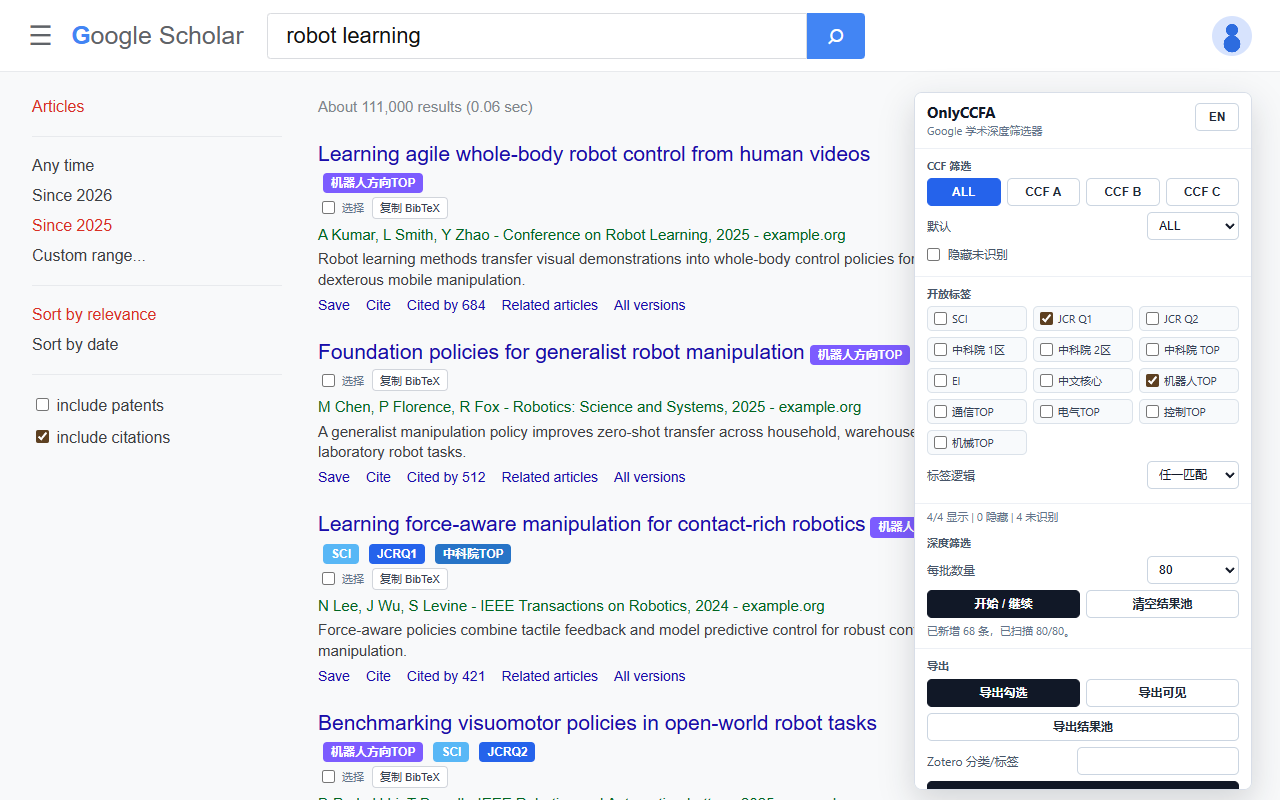
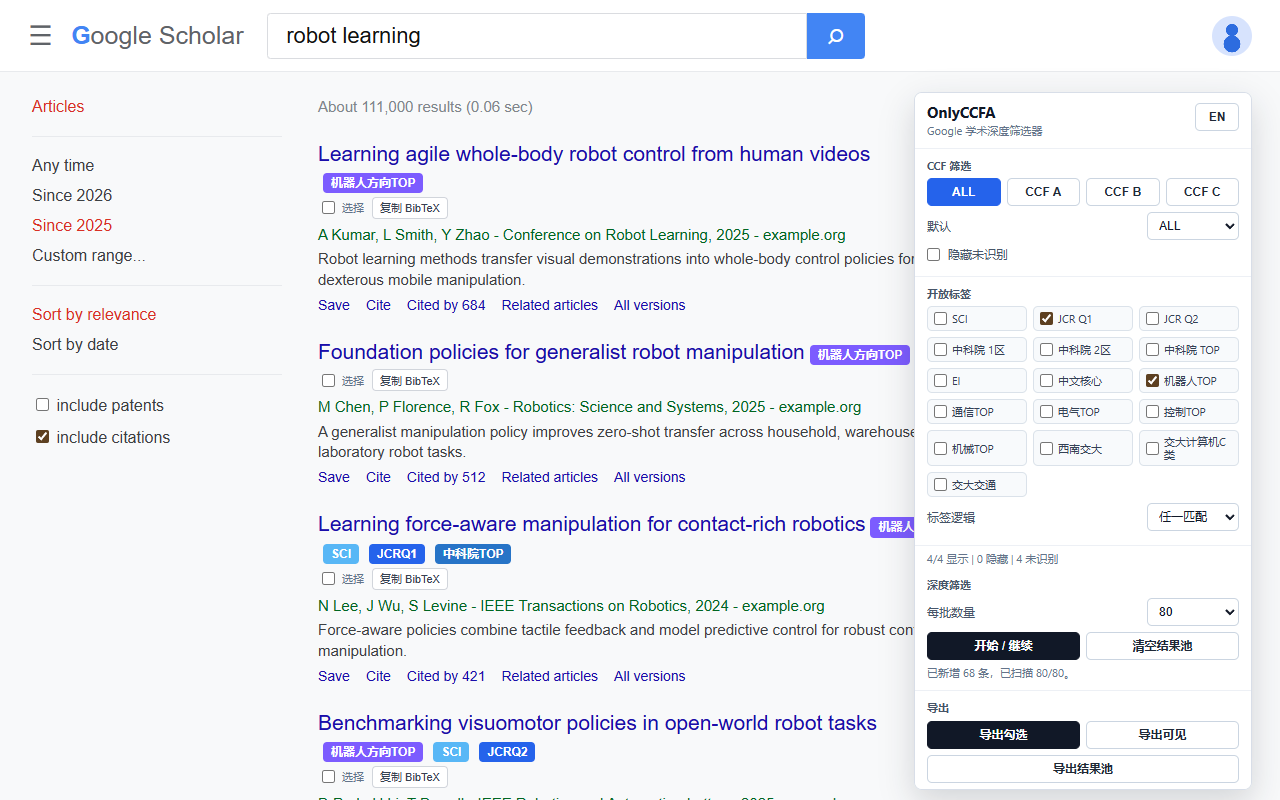
docs: showcase stronger feature demos

Changed region(s): [[0.7188, 0.5312, 0.9688, 1.0], [0.875, 0.6875, 0.9688, 0.8125], [0.875, 0.5312, 0.9688, 0.6562]]

diff --git a/README_en.md b/README_en.md
@@ -43,9 +43,13 @@ OnlyCCFA screenshots are organized around the core workflow: deep-scan multiple 
 | ---------------------------------------------------------------------------------------------------------------- | ------------------------------------------------------------------------------------------------------------------------ |
 | <img src="./img/demo-deep-filter-workflow.png" alt="OnlyCCFA deep filtering Google Scholar results" width="420"> | <img src="./img/demo-advanced-source-filters.png" alt="OnlyCCFA advanced source filters for Google Scholar" width="420"> |
 
-| BibTeX / Zotero Connector                                                                                                           | Continue the next batch                                                                                         |
-| ----------------------------------------------------------------------------------------------------------------------------------- | --------------------------------------------------------------------------------------------------------------- |
-| <img src="./img/demo-bibtex-zotero-export.png" alt="OnlyCCFA exporting filtered papers to BibTeX and Zotero Connector" width="420"> | <img src="./img/demo-continue-next-batch.png" alt="OnlyCCFA continuing the next deep-filter batch" width="420"> |
+| Field TOP venues beyond CCF/JCR/CAS                                                                       | Continue the next batch                                                                                         |
+| --------------------------------------------------------------------------------------------------------- | --------------------------------------------------------------------------------------------------------------- |
+| <img src="./img/demo-field-top-venues.png" alt="OnlyCCFA field top venue filters beyond CCF" width="420"> | <img src="./img/demo-continue-next-batch.png" alt="OnlyCCFA continuing the next deep-filter batch" width="420"> |
+
+| Clean multi-line BibTeX                                                                                  | Zotero Connector sees only filtered clean results                                                                           |
+| -------------------------------------------------------------------------------------------------------- | --------------------------------------------------------------------------------------------------------------------------- |
+| <img src="./img/demo-clean-bibtex-format.png" alt="OnlyCCFA clean multi-line BibTeX export" width="420"> | <img src="./img/demo-zotero-filtered-connector.png" alt="OnlyCCFA filtered Zotero Connector import candidates" width="420"> |
 
 ## Install
 
